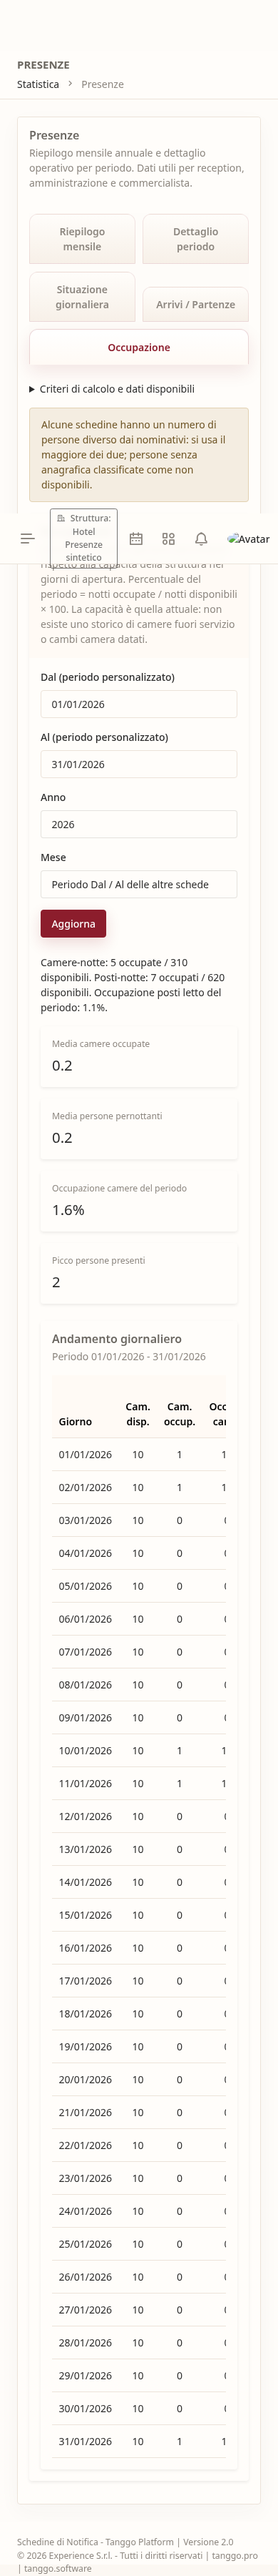
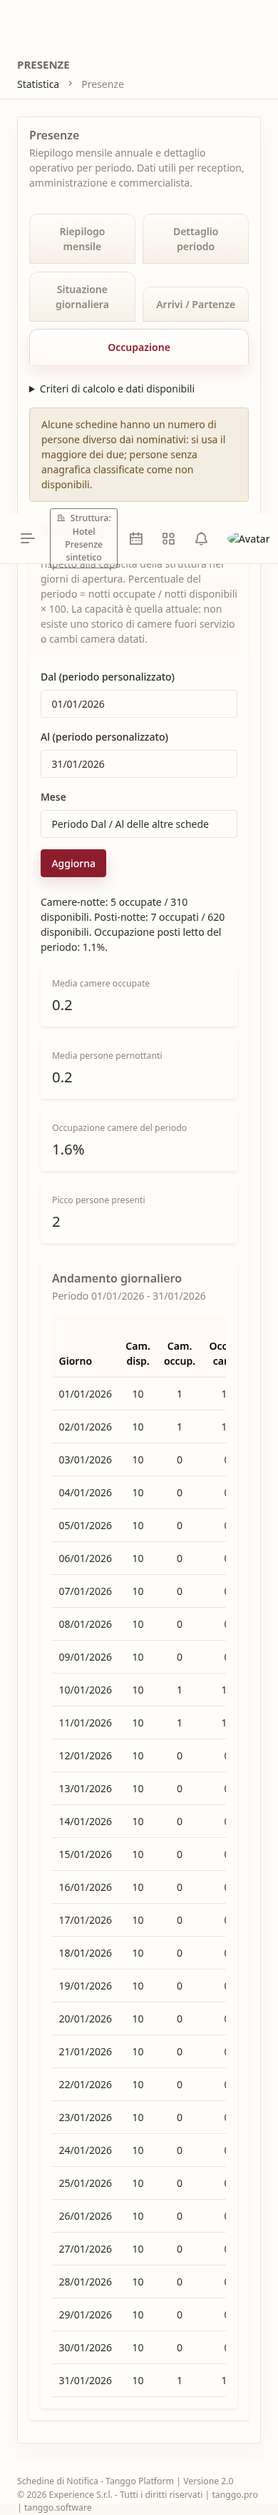
Raccorda i filtri di Occupazione alle altre schede Presenze

diff --git a/tests/Feature/presenze-complete.playwright.spec.js b/tests/Feature/presenze-complete.playwright.spec.js
@@ -17,7 +17,7 @@ for (const width of [1440,768,390]) {
     for(const [tab,label] of [['dettaglio','Dettaglio periodo'],['oggi','Situazione giornaliera'],['movimenti','Arrivi / Partenze'],['occupazione','Occupazione'],['riepilogo','Riepilogo mensile']]) {
       await page.getByRole('tab',{name:label,exact:true}).click();
       await expect(page.locator(`#presenze-${tab}`)).toHaveClass(/show active|active show/);
-      if(tab==='occupazione') await expect(page.locator('#presenze-occupazione')).toContainText('Occupazione posti letto del periodo: 1.1%');
+      if(tab==='occupazione') { await expect(page.locator('#presenze-occupazione')).toContainText('Occupazione posti letto del periodo: 1.1%'); await expect(page.locator('#presenze-occupazione .presenze-month-year')).not.toBeVisible(); }
       await expect(page.locator(`#presenze-${tab}`)).toHaveCSS('opacity','1');
       await page.locator(`#presenze-${tab}`).scrollIntoViewIfNeeded();
       await expect.poll(()=>page.evaluate(()=>document.documentElement.scrollWidth <= innerWidth)).toBe(true);
@@ -32,6 +32,11 @@ for (const width of [1440,768,390]) {
     await expect(page.locator('body')).toContainText('presenze 7');
     await page.goto(`${BASE_URL}/statistica/presenze/stampa-dettaglio?dal=2026-01-01&al=2026-01-31`);
     await expect(page.locator('body')).toContainText('Persona sintetica');
+    await page.goto(`${BASE_URL}/statistica/presenze?tab=occupazione&occupazione_anno=2024&occupazione_mese=2&dal=2026-06-01&al=2026-09-30&mese_da=6&mese_a=9`);
+    await page.getByRole('tab',{name:'Dettaglio periodo',exact:true}).click();
+    await expect(page.locator('#presenze-dettaglio')).toContainText('Periodo 01/02/2024 - 29/02/2024');
+    await page.getByRole('tab',{name:'Riepilogo mensile',exact:true}).click();
+    await expect(page.locator('#presenze-riepilogo')).toContainText('Nessun soggiorno o movimento');
     await page.goto(`${BASE_URL}/statistica/presenze?anno=2024&mese_da=1&mese_a=12`);
     await expect(page.locator('#presenze-riepilogo')).toContainText('Nessun soggiorno o movimento');
     await expect(page.locator('#presenze-riepilogo table')).toHaveCount(0);

diff --git a/tests/Feature/PresenzeCompleteTest.php b/tests/Feature/PresenzeCompleteTest.php
@@ -159,4 +159,24 @@ class PresenzeCompleteTest extends TestCase
             ->assertViewHas('occupazioneMese','periodo');
     }
 
+    public function test_mese_occupazione_trasferito_a_dettaglio_movimenti_e_riepilogo(): void
+    {
+        $s=$this->structureFor(null);$u=$this->actor('struttura_user',null,$s->id);
+        $r=$this->actingAs($u)->withSession(['struttura_corrente_id'=>$s->id])->get('/statistica/presenze?tab=occupazione&occupazione_anno=2024&occupazione_mese=2&anno=2026&mese_da=6&mese_a=9&dal=2026-06-01&al=2026-09-30');
+        $r->assertOk()->assertViewHas('dal',fn($d)=>$d->toDateString()==='2024-02-01')
+            ->assertViewHas('al',fn($d)=>$d->toDateString()==='2024-02-29')->assertViewHas('anno',2024)
+            ->assertViewHas('meseDa',2)->assertViewHas('meseA',2)->assertViewHas('riepilogo',fn($v)=>$v->count()===1);
+    }
+
+    public function test_periodo_di_mesi_interi_trasferito_al_riepilogo_senza_troncare_intervalli_tra_anni(): void
+    {
+        $s=$this->structureFor(null);$u=$this->actor('struttura_user',null,$s->id);
+        $this->actingAs($u)->withSession(['struttura_corrente_id'=>$s->id]);
+        $this->get('/statistica/presenze?tab=dettaglio&dal=2025-11-01&al=2025-12-31')
+            ->assertOk()->assertViewHas('anno',2025)->assertViewHas('meseDa',11)->assertViewHas('meseA',12);
+        $this->get('/statistica/presenze?tab=dettaglio&dal=2025-12-31&al=2026-01-02')
+            ->assertOk()->assertViewHas('dal',fn($d)=>$d->toDateString()==='2025-12-31')
+            ->assertViewHas('al',fn($d)=>$d->toDateString()==='2026-01-02');
+    }
+
 }

diff --git a/resources/views/statistica/presenze/index.blade.php b/resources/views/statistica/presenze/index.blade.php
@@ -371,7 +371,7 @@
                             <div class="col-md-3 presenze-custom-range"><label class="form-label">Dal (periodo personalizzato)</label><x-calendario name="dal" variant="single" :value="$dal->toDateString()" /></div>
                             <div class="col-md-3 presenze-custom-range"><label class="form-label">Al (periodo personalizzato)</label><x-calendario name="al" variant="single" :value="$al->toDateString()" /></div>
                             <input type="hidden" name="categoria" value="{{ $categoria }}">
-                            <div class="col-md-3 col-lg-2">
+                            <div class="col-md-3 col-lg-2 presenze-month-year">
                                 <label class="form-label">Anno</label>
                                 <x-ui.select name="occupazione_anno">
                                     @for($year = now()->year + 1; $year >= 2020; $year--)
@@ -453,7 +453,7 @@
 @endsection
 
 @section('script')
-<style>#presenze-occupazione form:not(:has(select[name="occupazione_mese"] option[value="periodo"]:checked)) .presenze-custom-range { display:none; }</style>
+<style>#presenze-occupazione form:not(:has(select[name="occupazione_mese"] option[value="periodo"]:checked)) .presenze-custom-range { display:none; }#presenze-occupazione form:has(select[name="occupazione_mese"] option[value="periodo"]:checked) .presenze-month-year { display:none; }</style>
 <script>
 document.querySelectorAll('form[method="GET"]').forEach(form => {
     form.addEventListener('submit', event => {

diff --git a/app/Http/Controllers/PresenzeController.php b/app/Http/Controllers/PresenzeController.php
@@ -39,6 +39,18 @@ class PresenzeController extends Controller
             $giornoSituazione = $dal->copy();
             $occupazioneMese = 'periodo';
         }
+        if ($request->input('tab') === 'occupazione' && $occupazioneMese !== 'periodo') {
+            [$dal, $al] = $this->resolveOccupazionePeriodo($occupazioneAnno, $occupazioneMese);
+            $giornoSituazione = $dal->copy();
+        }
+        // Il riepilogo rappresenta mesi interi di un solo anno: raccordare solo intervalli compatibili.
+        if (in_array($request->input('tab'), ['dettaglio', 'movimenti', 'occupazione'], true)
+            && $dal->year >= 2020 && $dal->year <= 2100
+            && $dal->year === $al->year && $dal->day === 1 && $al->isLastOfMonth()) {
+            $anno = $dal->year;
+            $meseDa = $dal->month;
+            $meseA = $al->month;
+        }
         $riepilogo = $this->service->riepilogoAnno($struttura->id, $anno)
             ->filter(fn ($row) => $row['mese'] >= $meseDa && $row['mese'] <= $meseA)
             ->values();

diff --git a/docs/PRESENZE-COMPLETO-2026-10-28.md b/docs/PRESENZE-COMPLETO-2026-10-28.md
@@ -32,6 +32,23 @@ R1:5test/52asserzioni,1fallimento sulla capacità stagionale; corretto il suppor
 
 Selezione R8: PresenzeCompleteTest, StrutturaAuthorizationTest, StrutturaSelezioneTest, SchedinaSoggiornoTest; fixture presenze-fixtures.php; browser presenze-complete.playwright.spec.js a1440/768/390. Risultati sovrapposti non sommati. Formula attesa indipendente per gennaio2026: saldo iniziale3, arrivi3, partenze5, finale1, presenze7; confronto fra mesi, dettaglio, somma giornaliera e movimenti. Inclusi primo del mese, dicembre/gennaio, febbraio2024bisestile, gruppi e paesi misti/sconosciuti, esclusione circuiti non effettivi e altro tenant, date rettificate, camere ripetute, periodo vuoto, capacità variabile/zero/150%, ruoli e sessioni contraffatte, stampe e filtri errati; snapshot soggiorni prima/dopo GET identico.
 
-Qualifica isolata VERIFICATA nello scope indicato; pubblicazione ancora PENDENTE C5. [Ricevuta](evidenze/presenze-2026-10-28/verifica.json). BASELINE IN AUDIT generale invariata.
+Qualifica isolata R8 VERIFICATA nello scope indicato; prima versione pubblicata con C5, chiusura complessiva ancora PENDENTE per il correttivo finale e la custodia descritti sotto. [Ricevuta](evidenze/presenze-2026-10-28/verifica.json). BASELINE IN AUDIT generale invariata.
 
 Revisione finale: mantenuto il collegamento preesistente Stampa dettaglio mese e rimossa la colonna duplicata Persone dall’occupazione. R8 sul candidato finale:43test/199asserzioni e3browserPASS,23override/buildGEO conformi; stampa mensile controllata anche tramite destinazione del collegamento. Nessuna modifica delle formule dopo R7.
+
+
+## Prima pubblicazione e verifica online
+
+PR45 integrata ordinariamente; applicativo c560979f308ba66a5b653fadee64c390c825a69f, merge main c66a9b0e, alberi confrontati identici. Nessuna verifica CI o revisione indipendente remota disponibile, nessuna attestazione inventata. PREPARE e recupero indipendente positivi. Primo RUN fermato prima dell’esecuzione per un nuovo ingresso nel vecchio pool FPM condiviso; baseline riaperta senza modifiche. Nuovo piano e approvazione, RUN R2 PASS: S0 139,899s, rilascio257,775s, nessuna DDL, budget e guardie invariati. Guardiani conclusi, inattivi e disabilitati, servizi altrui preservati.
+
+Online le cinque schede della prima versione, verificate con la sessione Chrome già autenticata dell’utente, senza cambiare struttura e con sole consultazioni GET. Nessuna sessione artificiale, utente o prenotazione sintetica produttiva creati. Hotel Gori senza soggiorni nel filtro: lo zero non viene usato come prova delle formule. Riepilogo vuoto senza tabelle, calendario stagionale con20settembre incluso e capacità zero dal21: giugno–settembre122giorni/112aperti,7056camere-notte e15680posti-notte. La scelta del solo giugno aggiorna correttamente Occupazione a1890camere-notte/4200posti-notte.
+
+Durante la navigazione reale è emerso un raccordo ancora incompleto: da giugno in Occupazione, Dettaglio manteneva giugno–settembre. Correttivo locale: il mese/anno di Occupazione diventa il periodo comune; intervalli di mesi interi dello stesso anno raccordano anche il Riepilogo. Intervalli fra anni restano integri. Il controllo Anno viene nascosto quando si usa un periodo personalizzato. Questa correzione è distinta dalla versione già online e richiede qualifica e nuova pubblicazione.
+
+Monitor dopo il primo rilascio PASS:31campioni/918,496s/279sondeHTTP-TLS-CSS;104persistenti invariati e zero nuovi errori applicativi/FPM dal RUN R2. [Ricevuta sanificata](evidenze/presenze-2026-10-28/pubblicazione-prima-versione.json). La ricevuta tecnica non chiude la task né sostituisce la custodia finale.
+
+La copia S0 cifrata su Extra è stata respinta dalla revisione automatica perché i backup di produzione contengono dati sensibili e la destinazione richiede consenso esplicito attuale. Trasferimento fermato, nessun aggiramento; richiesta specifica all’utente pendente. La custodia PREPARE già eseguita resta conservata. Nessun nuovo PREPARE/S0 o rilascio del correttivo prima di tale consenso.
+
+## Ripresa del collaudo finale
+
+R9 non qualificante: ripristino delle sole copie private vendor/node_modules interrotto da spazio esaurito, file tronchi e fatal prima di PHPUnit; eventuali risultati precedenti copiati non costituiscono esitiR9. Originali quotidiani intatti. Ritirate soltanto estrazioni/datadir temporanei di due recuperi già conclusi dopo verifica integrale dei contenuti e dei cifrati; SQL, ridump, cifrati, inventari, chiavi e diagnostici preservati. Spazio recuperato circa2,4GB. Ripristinate e confrontate34112voci/file delle dipendenze con gli originali. R10 concluso PASS nell’ambiente isolato ufficiale:45test PHP/213asserzioni e3scenari browser a1440/768/390, tutte le cinque schede, stampe e passaggio febbraio2024→Dettaglio→Riepilogo;23rifiuti override e build/GEO PASS. Immagini stabili aggiornate e ispezionate, ambiente effimero fermato e rimosso. Nessuna suite globale o telefono fisico attestati.

diff --git a/docs/maestro/MAESTRO-SCHEDINE-DI-NOTIFICA.md b/docs/maestro/MAESTRO-SCHEDINE-DI-NOTIFICA.md
@@ -1,8 +1,10 @@
 # MAESTRO — SCHEDINE DI NOTIFICA
 
-## Presenze — completamento in qualifica, 28 ottobre 2026
+## Presenze — prima versione online, raccordo finale in qualifica, 28 ottobre 2026
 
-Incarico esplicito per cinque schede, codice, prove, GitHub e pubblicazione. Copia separata dalla base online f403cdb9 e main56085cfd documentale; ramo codex/presenze-completo-20261028. Corretti arrivi del dettaglio, saldo iniziale incluse partenze del primo giorno, residenza individuale con sconosciuti, capacità e percentuale ponderata, filtri e stampe, riepilogo vuoto e letture annuali. Nessuna DDL o dato operativo modificato. Limiti storici di capacità, camere fuori servizio e stati cancellato/no-show non presenti nel modello dichiarati, senza inventarli. R8 finale nella sola VM ufficiale:43PHP/199asserzioni e3browser a1440/768/390 PASS,15viste con transizioni concluse,23override e build/GEO PASS; precedenti fallimenti e limiti conservati. Pubblicazione ancora PENDENTE C5; [rapporto](../PRESENZE-COMPLETO-2026-10-28.md). BASELINE IN AUDIT invariata.
+Prima versione c560979f integrata con PR45 e pubblicata C5 R2 PASS: S0 139,899s, riapertura257,775s, nessuna DDL. Precedente STOP del vecchio pool FPM prima dell’esecuzione conservato; baseline riaperta intatta. Cinque schede verificate online con sessione Chrome esistente e soli GET, nessuna prenotazione/utenza sintetica produttiva. Monitor31campioni/918,496s/279sonde PASS,104persistenti invariati, zero nuovi errori applicativi/FPM dal R2, guardiani conclusi. Hotel Gori vuoto non usato per attestare formule, qualificate su dati sintetici R8:43PHP/199asserzioni+3browser.
+
+Trovato online un ultimo raccordo: il mese scelto in Occupazione non aggiornava Dettaglio. Corretto localmente insieme all’allineamento del Riepilogo per mesi interi e alla rimozione dell’Anno ridondante nei periodi personalizzati; qualifica R10 PASS45PHP/213asserzioni+3browser a1440/768/390,23override/buildGEO PASS, dopo il fallimento infrastrutturale R9 per copie dipendenze tronche. Ripristino34112file verificato con originali intatti; derivati di recuperi conclusi ritirati solo dopo verifiche, backup/SQL/chiavi preservati. Copia S0 cifrata su Extra respinta dal controllo automatico per consenso specifico mancante: nessun aggiramento, richiesta all’utente pendente, nessun nuovo circuito/deploy del correttivo. Chiusura complessiva PENDENTE. [Rapporto](../PRESENZE-COMPLETO-2026-10-28.md), [prima pubblicazione](../evidenze/presenze-2026-10-28/pubblicazione-prima-versione.json). BASELINE IN AUDIT generale invariata.
 
 ## Pubblicazione Contatti e login — 28 ottobre 2026
 
